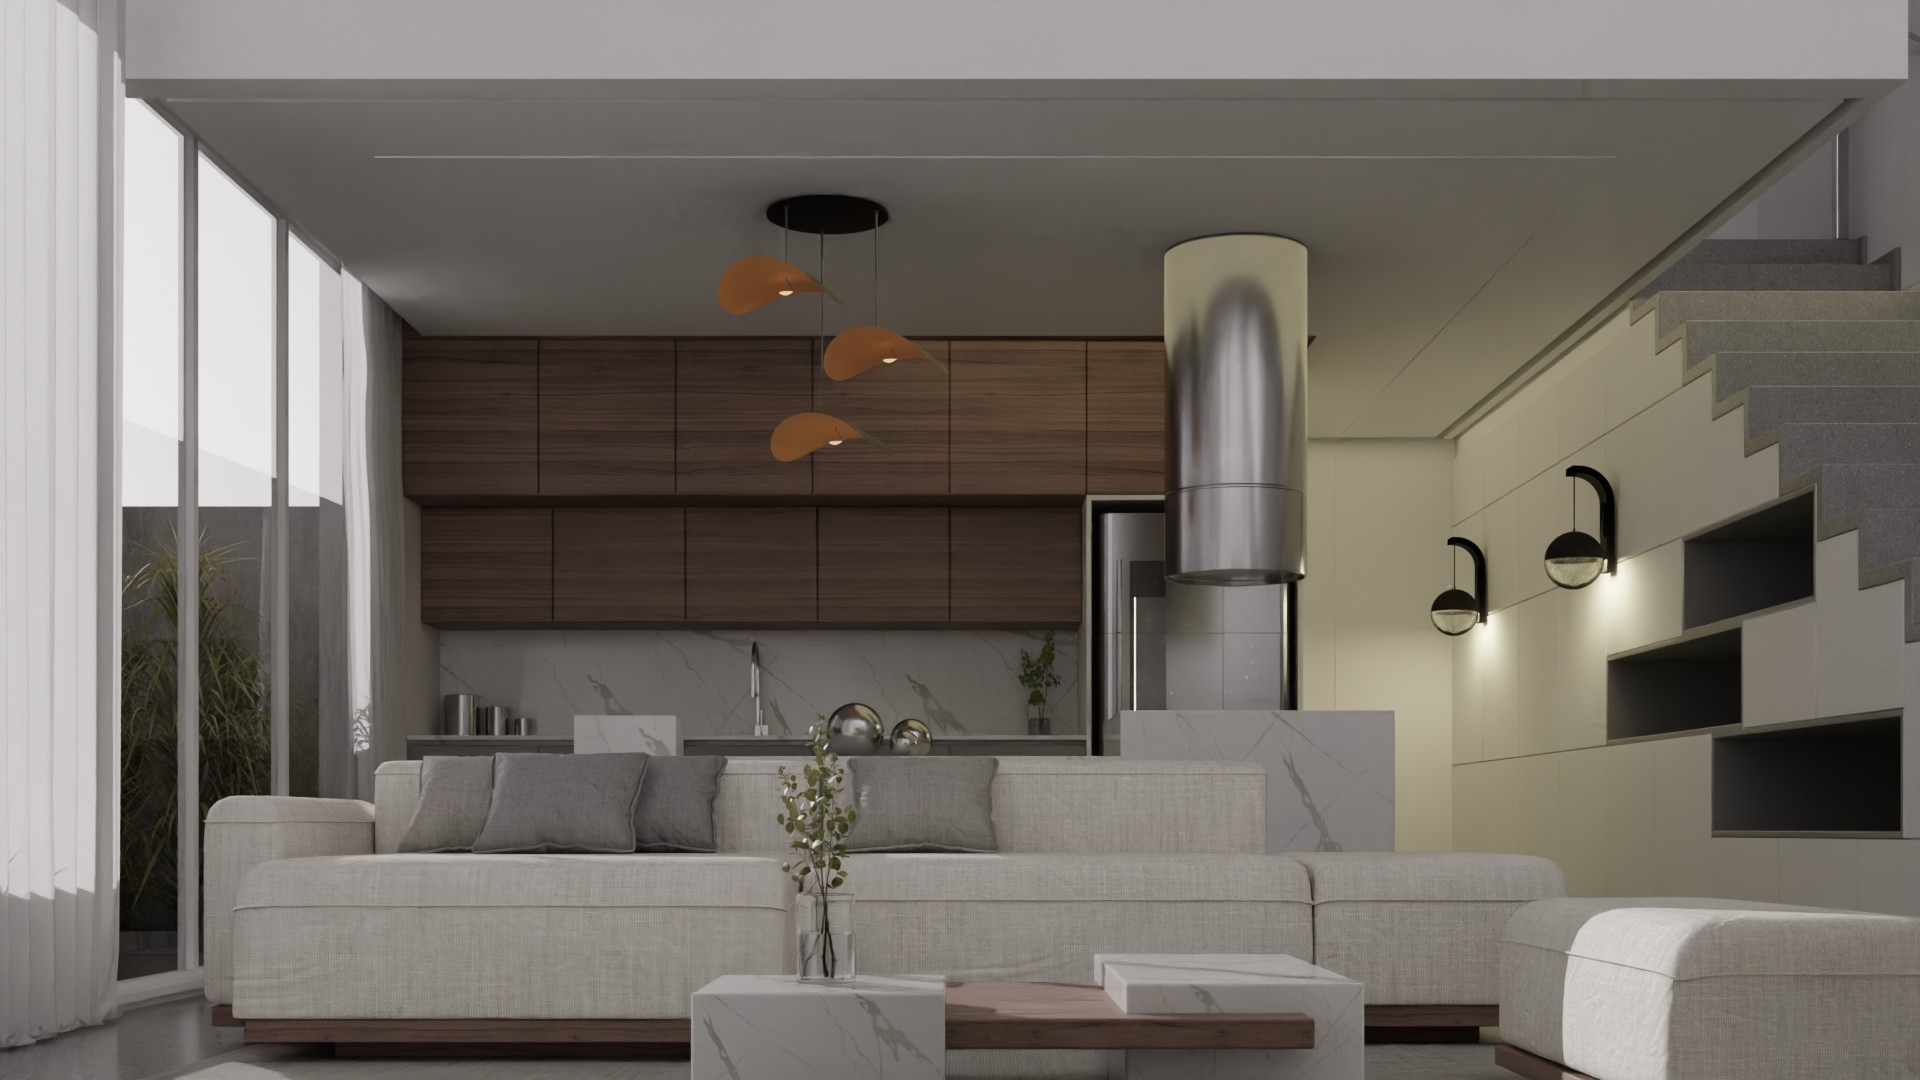
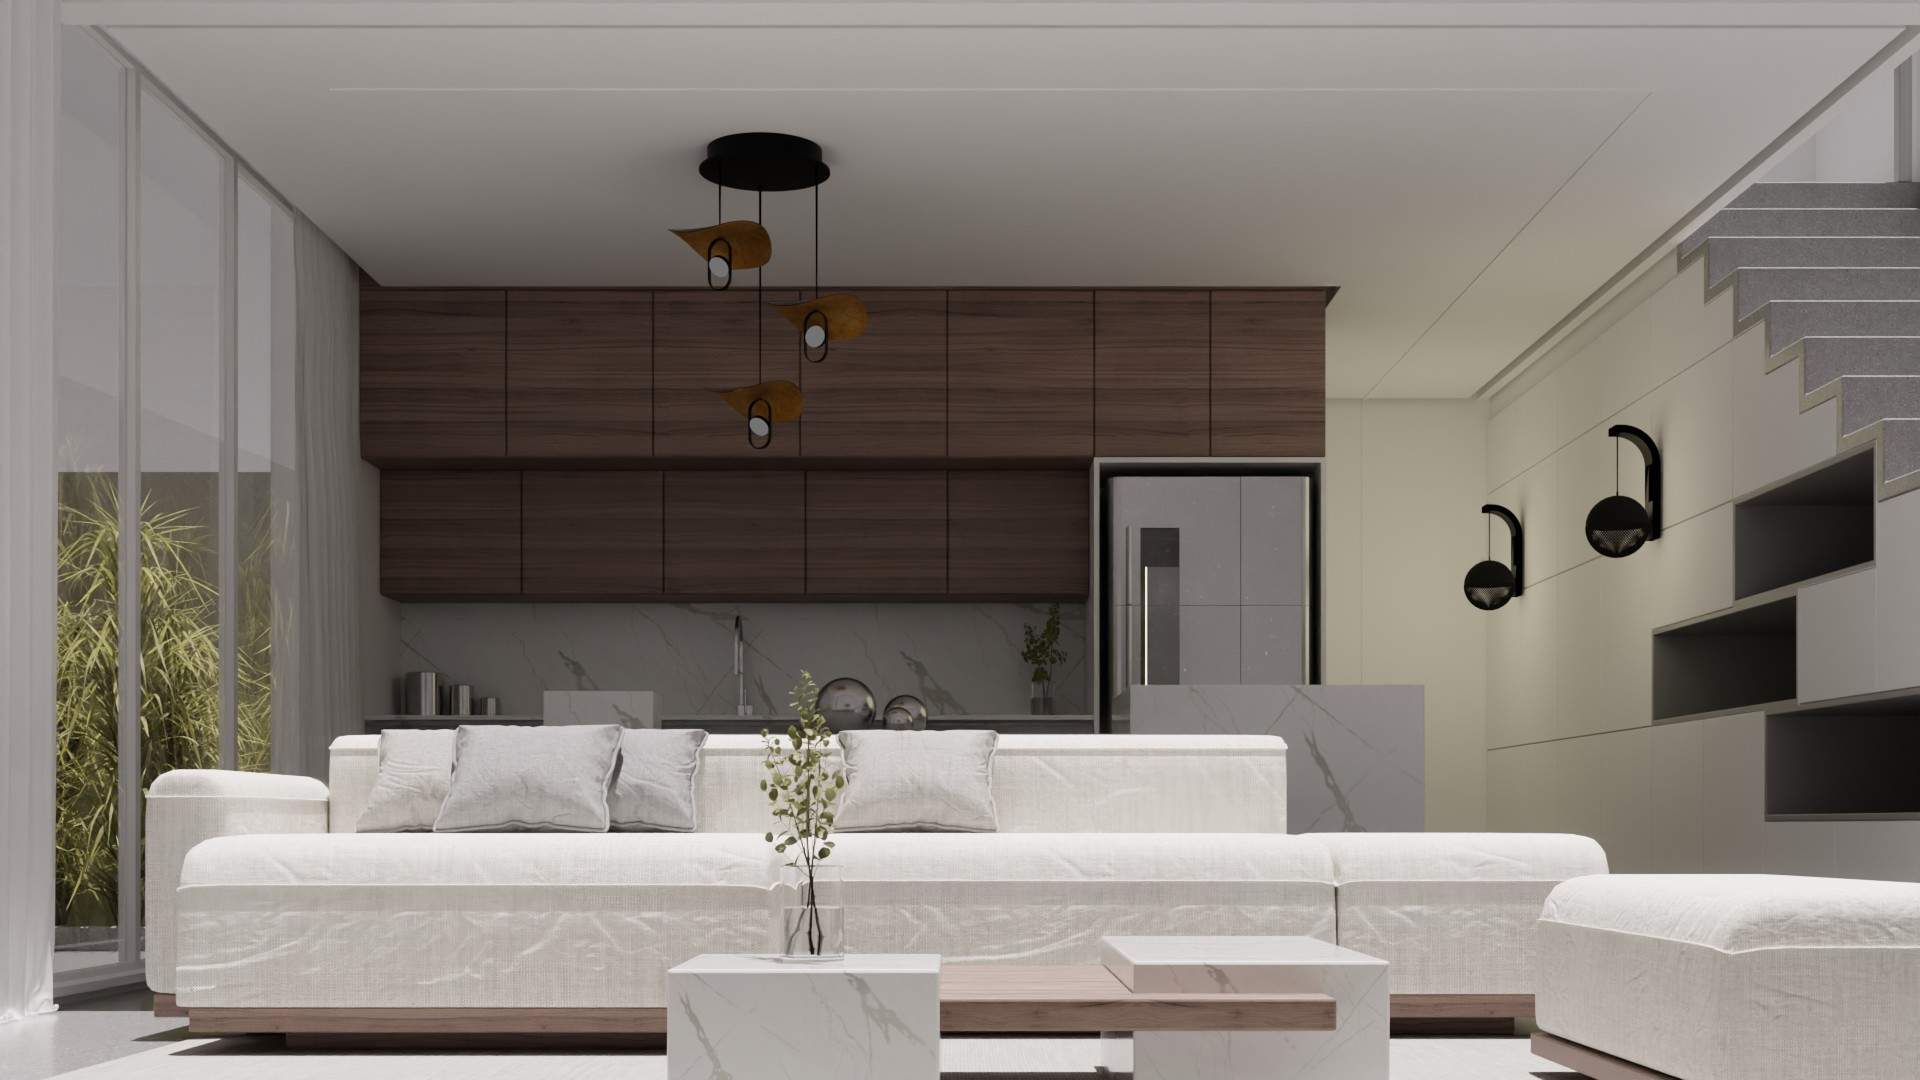
renders updates lights

diff --git a/src/app/components/LightingScene.jsx b/src/app/components/LightingScene.jsx
@@ -20,11 +20,11 @@ const LightingScene = ({ userType }) => {
   const [isDayMode, setIsDayMode] = useState(false);
   const [isTopLightOn, setIsTopLightOn] = useState(true);
   const [isMiddleLightOn, setIsMiddleLightOn] = useState(true);
+  const [isBothLightsOn, setIsBothLightsOn] = useState(true);
+  const [isMobile, setIsMobile] = useState(false);
   
   // Refs for GSAP animations
   const sceneRef = useRef(null);
-  const topLightRef = useRef(null);
-  const middleLightRef = useRef(null);
   const buttonRef = useRef(null);
   const headerRef = useRef(null);
   const clipPathRef = useRef(null);
@@ -61,14 +61,7 @@ const LightingScene = ({ userType }) => {
 
   // GSAP animations for smooth transitions
   useEffect(() => {
-    // Animate scene based on day/night mode
-    if (sceneRef.current) {
-      gsap.to(sceneRef.current, {
-        backgroundImage: `url(/images/configImages/${isDayMode ? 'day' : 'night'}.jpg)`,
-        duration: 0.8,
-        ease: 'power2.out'
-      });
-    }
+    // We'll handle scene animation in a separate useEffect that considers all light states
 
     // Animate button based on day/night mode
     if (buttonRef.current) {
@@ -81,45 +74,62 @@ const LightingScene = ({ userType }) => {
     }
   }, [isDayMode]);
 
-  // Animate top light
-  /**
-   * Updates the top light's appearance and animation based on its on/off state
-   * and the current day/night mode.
-   */
+  // Check if the device is mobile on mount and when window resizes
   useEffect(() => {
-    if (topLightRef.current) {
-      // Update the light image based on day/night mode
-      topLightRef.current.style.backgroundImage = `url(/images/configImages/${isDayMode ? 'day' : 'night'}_ceiling.jpg)`;
-      
-      gsap.to(topLightRef.current, {
-        opacity: isTopLightOn ? 0.4 : 0,
-        duration: 0.5,
-        ease: 'power2.out'
-      });
-    }
-  }, [isTopLightOn, isDayMode]);
+    const checkIfMobile = () => {
+      setIsMobile(window.innerWidth < 768); // Standard mobile breakpoint
+    };
+    
+    // Check initially
+    checkIfMobile();
+    
+    // Add event listener for window resize
+    window.addEventListener('resize', checkIfMobile);
+    
+    // Clean up event listener
+    return () => window.removeEventListener('resize', checkIfMobile);
+  }, []);
 
-  // Animate middle light
+  // Update both lights state when individual lights change
   useEffect(() => {
-    if (middleLightRef.current) {
-      // Update the light image based on day/night mode
-      middleLightRef.current.style.backgroundImage = `url(/images/configImages/${isDayMode ? 'day' : 'night'}_wall.jpg)`;
+    setIsBothLightsOn(isTopLightOn && isMiddleLightOn);
+  }, [isTopLightOn, isMiddleLightOn]);
+
+  // Update the scene background based on lighting state
+  useEffect(() => {
+    if (sceneRef.current) {
+      let imageName = isDayMode ? 'day' : 'night';
       
-      gsap.to(middleLightRef.current, {
-        opacity: isMiddleLightOn ? 0.4 : 0,
-        duration: 0.5,
+      // Determine which image to show based on light states
+      if (isTopLightOn && isMiddleLightOn) {
+        imageName += '_both';
+      } else if (isTopLightOn) {
+        imageName += '_ceiling';
+      } else if (isMiddleLightOn) {
+        imageName += '_wall';
+      }
+      
+      // Add mobile suffix if on mobile device
+      if (isMobile) {
+        imageName += '-mob';
+      }
+      
+      // Animate the background change
+      gsap.to(sceneRef.current, {
+        backgroundImage: `url(/images/configImages/${imageName}.jpg)`,
+        duration: 0.8,
         ease: 'power2.out'
       });
     }
-  }, [isMiddleLightOn, isDayMode]);
+  }, [isDayMode, isTopLightOn, isMiddleLightOn, isMobile]);
 
   return (
     <div 
       id="lighting"
       ref={sceneRef}
-      className="relative h-[90vh] w-full overflow-hidden bg-black"
+      className="relative h-[90vh] w-full overflow-hidden bg-black py-12"
       style={{
-        backgroundImage: `url(/images/configImages/${isDayMode ? 'day' : 'night'}.jpg)`,
+        backgroundImage: `url(/images/configImages/${isDayMode ? 'day' : 'night'}${isTopLightOn && isMiddleLightOn ? '_both' : isTopLightOn ? '_ceiling' : isMiddleLightOn ? '_wall' : ''}${isMobile ? '-mob' : ''}.jpg)`,
         backgroundSize: 'contain',
         backgroundPosition: 'center',
         backgroundRepeat: 'no-repeat',
@@ -134,39 +144,17 @@ const LightingScene = ({ userType }) => {
         {/* Large themed heading at the top */}
         <div 
           ref={headerRef}
-          className="w-full bg-gradient-to-r from-[#2d4133] to-[#1a2a20] py-4 sm:py-6 px-6 sm:px-10 z-50"
+          className="w-full bg-gradient-to-r from-[#2d4133] to-[#1a2a20] py-4 sm:py-3 px-6 sm:px-5 z-50"
         >
-          <h2 className="text-2xl sm:text-3xl md:text-4xl font-bold text-white text-center">
+          <h2 className="text-2xl sm:text-xl md:text-xl font-bold text-white text-center">
             Visualize Your Space
           </h2>
-          <p className="text-sm sm:text-base md:text-lg text-white text-center mt-2 max-w-3xl mx-auto">
+          <p className="text-sm sm:text-base md:text-lg text-white text-center mt-2 max-w-3xl md:max-w-4xl mx-auto">
           Discover our lighting solutions within your own space. Adjust the settings below to switch between day and night modes and to control individual lights, helping you create the ideal atmosphere. </p>
         </div>
       </div>
 
-      <div 
-        ref={topLightRef}
-        className="absolute inset-0 mix-blend-screen"
-        style={{
-          backgroundImage: `url(/images/configImages/${isDayMode ? 'day' : 'night'}_ceiling.jpg)`,
-          backgroundSize: 'contain',
-          backgroundPosition: 'center',
-          backgroundRepeat: 'no-repeat',
-          opacity: 0
-        }}
-      />
-
-      <div 
-        ref={middleLightRef}
-        className="absolute inset-0 mix-blend-screen"
-        style={{
-          backgroundImage: `url(/images/configImages/${isDayMode ? 'day' : 'night'}_wall.jpg)`,
-          backgroundSize: 'contain',
-          backgroundPosition: 'center',
-          backgroundRepeat: 'no-repeat',
-          opacity: 0
-        }}
-      />
+      {/* We no longer need separate light layers since we're using direct image swapping */}
 
       <div className="absolute top-4  md:top-10 left-4 sm:left-6 md:left-10 z-50 max-sm:bottom-32 max-sm:top-auto">
         <div className="flex flex-col items-start max-sm:flex-row max-sm:space-x-4 max-sm:justify-center">
@@ -175,7 +163,7 @@ const LightingScene = ({ userType }) => {
             <div className="w-12 sm:w-16 h-0.5 bg-yellow-400 mt-1"></div>
           </h3>
  
-          <button className=" sm:mt-6 bg-white text-black px-3 py-1.5 sm:px-4 sm:py-2 rounded-full flex items-center text-xs sm:text-sm">
+          <button className=" sm:mt-0 bg-white text-black px-3 py-1.5 sm:px-4 sm:py-2 rounded-full flex items-center text-xs sm:text-sm">
             Explore More Collections
             <svg xmlns="http://www.w3.org/2000/svg" className="h-3 w-3 sm:h-4 sm:w-4 ml-1 sm:ml-2" fill="none" viewBox="0 0 24 24" stroke="currentColor">
               <path strokeLinecap="round" strokeLinejoin="round" strokeWidth={2} d="M14 5l7 7m0 0l-7 7m7-7H3" />
